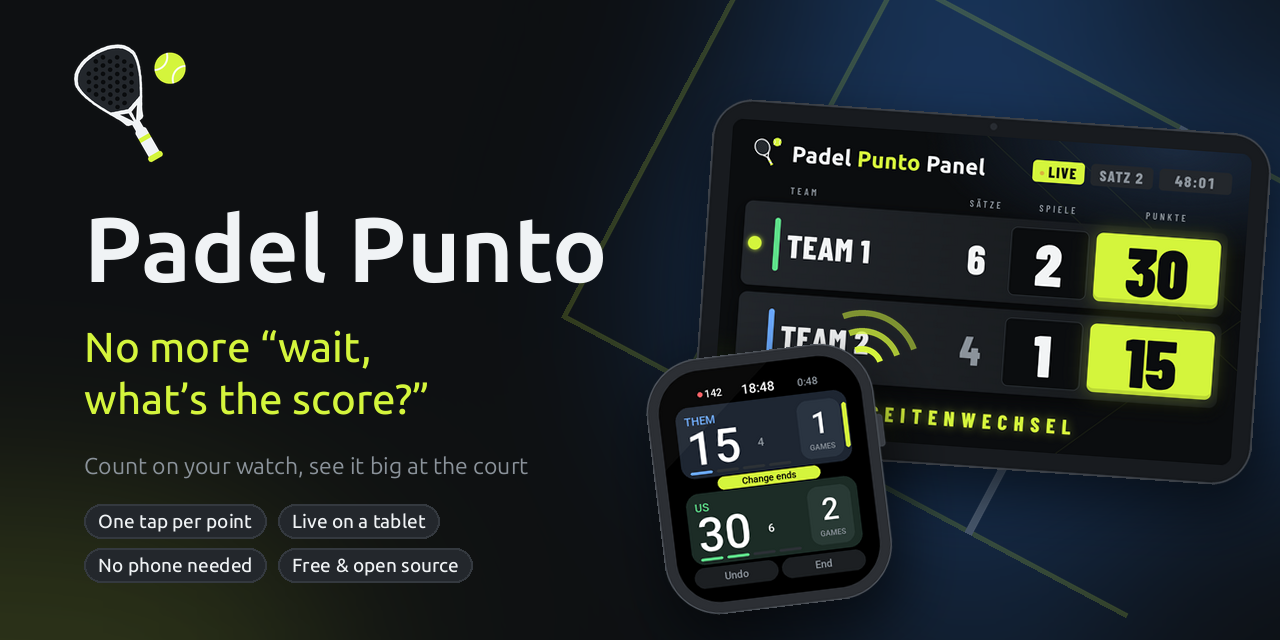
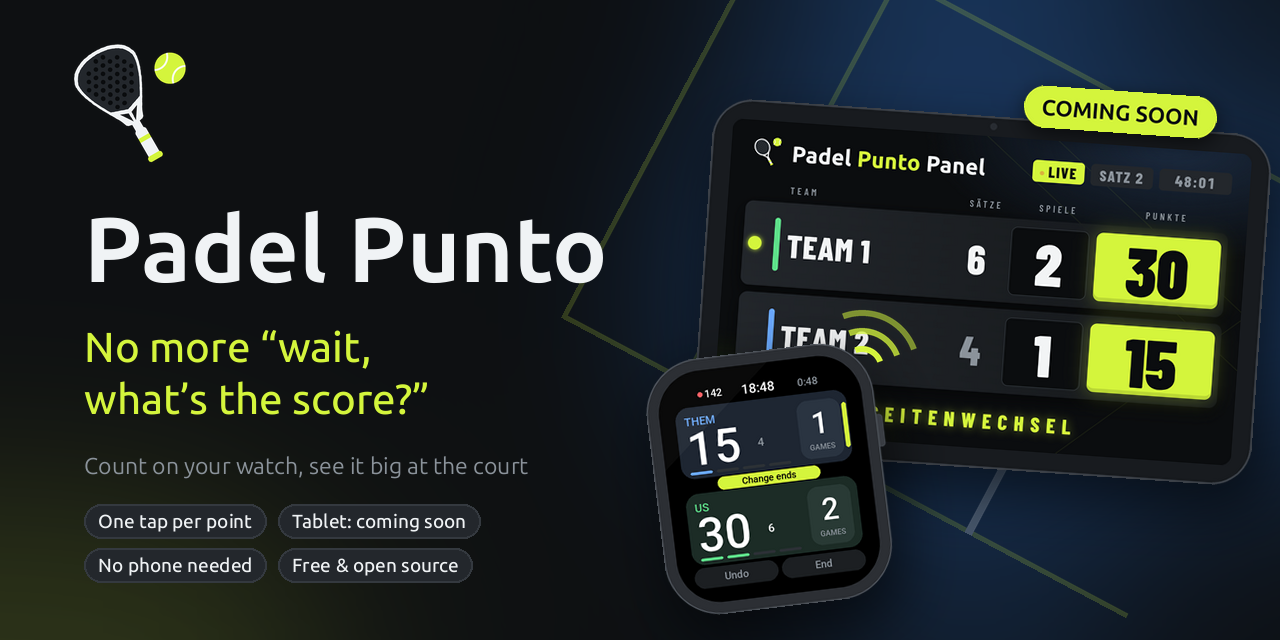
Start page for players: buttons, a block per app, a how-it-works picture, tablet marked coming soon

Changed region(s): [[0.7812, 0.125, 0.9688, 0.2188], [0.2188, 0.7812, 0.375, 0.8438]]

diff --git a/tools/banner.py b/tools/banner.py
@@ -1,5 +1,6 @@
-# Draws the banner of the organization's start page (profile/images/banner.png): "Padel Punto" with
-# the watch and the tablet, from the same pieces as the app banners. Needs the repos next to this
+# Draws the pictures of the organization's start page: the banner (profile/images/banner.png,
+# "Padel Punto" with the watch and the tablet) and the "how it works" strip (profile/images/flow.png),
+# from the same pieces as the app banners. Needs the repos next to this
 # one: ../Uhr (logo, fonts, court lines, watch picture) and ../Panel (tablet frame and screenshot).
 # Usage: python3 tools/banner.py
 import importlib.util
@@ -16,6 +17,28 @@ from readme_art import font, court, BG, MUTED, BALL, WHITE  # noqa: E402
 spec = importlib.util.spec_from_file_location('panel_art', os.path.join(BASE, 'Panel', 'tools', 'readme_art.py'))
 panel = importlib.util.module_from_spec(spec)
 spec.loader.exec_module(panel)
+
+# The tablet app is not released yet: the pictures say "coming soon". Set to False with Padel Punto 2.0.
+SOON = True
+
+
+def pill(img, cx, cy, text, size=19, angle=0):
+    """A lime label with dark text, centred on (cx, cy)."""
+    f = font(size)
+    S = 3
+    tw = ImageDraw.Draw(img).textlength(text, font=f)
+    w, h = round(tw + size * 1.6), round(size * 1.9)
+    im = Image.new('RGBA', (w * S, h * S), (0, 0, 0, 0))
+    d = ImageDraw.Draw(im)
+    d.rounded_rectangle([0, 0, w * S - 1, h * S - 1], radius=h * S // 2, fill=BALL + (255,))
+    d.text((w * S // 2, h * S // 2), text, font=font(size * S), fill=BG, anchor='mm')
+    im = im.resize((w, h), Image.LANCZOS)
+    if angle:
+        im = im.rotate(angle, expand=True, resample=Image.BICUBIC)
+    sh = Image.new('RGBA', (im.width + 40, im.height + 40), (0, 0, 0, 0))
+    sh.paste((0, 0, 0, 150), (20, 26), im.split()[3])
+    img.alpha_composite(sh.filter(ImageFilter.GaussianBlur(10)), (cx - sh.width // 2, cy - sh.height // 2))
+    img.alpha_composite(im, (cx - im.width // 2, cy - im.height // 2))
 
 
 def banner():
@@ -37,7 +60,7 @@ def banner():
     d.text((x, 374), 'what’s the score?”', font=font(42, 'Medium'), fill=BALL)
     d.text((x, 452), 'Count on your watch, see it big at the court', font=font(23, 'Regular'), fill=MUTED)
     f = font(19, 'Medium')
-    rows = (('One tap per point', 'Live on a tablet'),
+    rows = (('One tap per point', 'Tablet: coming soon' if SOON else 'Live on a tablet'),
             ('No phone needed', 'Free & open source'))
     for row, ts in enumerate(rows):
         px, py = x, 504 + row * 44
@@ -52,10 +75,57 @@ def banner():
     w = w.resize((round(w.width * 0.47), round(w.height * 0.47)), Image.LANCZOS)
     panel.place(img, w, 640, 336, angle=7)
     panel.signal(img, 862, 368)
+    if SOON:
+        pill(img, 1120, 112, 'COMING SOON', 22, angle=-4)
+    return img.convert('RGB')
+
+
+def flow():
+    """How it works, in one strip: the watch counts, Bluetooth carries the score, the tablet shows it."""
+    W, H = 1280, 400
+    img = Image.new('RGBA', (W, H), BG + (255,))
+    glow = Image.new('RGBA', (W, H), (0, 0, 0, 0))
+    gd = ImageDraw.Draw(glow)
+    gd.ellipse([760, -160, 1400, 420], fill=(32, 78, 140, 120))
+    gd.ellipse([-200, 180, 360, 620], fill=(212, 245, 60, 30))
+    img.alpha_composite(glow.filter(ImageFilter.GaussianBlur(110)))
+
+    w = Image.open(panel.WATCH).convert('RGBA')
+    k = 250 / w.height
+    w = w.resize((round(w.width * k), 250), Image.LANCZOS)
+    wx, top = 150, 28
+    panel.place(img, w, wx, top)
+    t = panel.tablet('banner', 420)
+    tx = W - 150 - t.width
+    panel.place(img, t, tx, top + (250 - t.height) // 2)
+
+    # dots from the watch to the tablet, growing brighter, with an arrow head
+    d = ImageDraw.Draw(img)
+    y = top + 125
+    x0, x1 = wx + w.width + 36, tx - 44
+    n = 13
+    for i in range(n):
+        x = x0 + (x1 - x0) * i / (n - 1)
+        a = round(70 + 185 * i / (n - 1))
+        r = 5
+        d.ellipse([x - r, y - r, x + r, y + r], fill=tuple(round(BG[c] + (BALL[c] - BG[c]) * a / 255) for c in range(3)))
+    d.polygon([(x1 + 12, y - 13), (x1 + 34, y), (x1 + 12, y + 13)], fill=BALL)
+    mid = (x0 + x1) // 2
+    d.text((mid, y - 40), 'Bluetooth', font=font(22), fill=WHITE, anchor='mm')
+    d.text((mid, y + 40), 'no phone, no internet', font=font(18, 'Regular'), fill=MUTED, anchor='mm')
+
+    base = top + 250 + 44
+    for cx, head, sub in ((wx + w.width // 2, 'The watch counts', 'one tap per point, score called out loud'),
+                          (tx + t.width // 2, 'The tablet shows', 'big at the court, for everyone')):
+        d.text((cx, base), head, font=font(26), fill=WHITE, anchor='mm')
+        d.text((cx, base + 34), sub, font=font(18, 'Regular'), fill=MUTED, anchor='mm')
+    if SOON:
+        pill(img, tx + t.width - 40, top + (250 - t.height) // 2 + 6, 'COMING SOON', 17, angle=-4)
     return img.convert('RGB')
 
 
 if __name__ == '__main__':
-    out = os.path.join(ROOT, 'profile', 'images', 'banner.png')
-    banner().save(out, optimize=True)
-    print(out)
+    for name, draw in (('banner', banner), ('flow', flow)):
+        out = os.path.join(ROOT, 'profile', 'images', name + '.png')
+        draw().save(out, optimize=True)
+        print(out)

diff --git a/profile/README.md b/profile/README.md
@@ -2,55 +2,89 @@
   <img src="images/banner.png" alt="Padel Punto – no more “wait, what’s the score?” Count on your watch, see it big at the court" width="840">
 </p>
 
+<p align="center">
+  <a href="https://github.com/PadelPunto/watch-zepp#-get-it-on-your-watch"><img src="https://img.shields.io/badge/Watch%20app-in%20the%20Zepp%20App%20Store-d4f53c?labelColor=23272c&style=for-the-badge" alt="Watch app: in the Zepp App Store"></a>
+  <img src="https://img.shields.io/badge/Tablet%20scoreboard-coming%20soon-8b949e?labelColor=23272c&style=for-the-badge" alt="Tablet scoreboard: coming soon">
+  <a href="https://github.com/PadelPunto/watch-zepp/blob/main/LICENSE"><img src="https://img.shields.io/badge/free-open%20source-d4f53c?labelColor=23272c&style=for-the-badge" alt="Free and open source"></a>
+</p>
+
 <h3 align="center">
-  Free padel apps that work together:<br>
-  the watch keeps the score, the tablet at the court shows it to everyone.
+  Tap your side, play the next point.<br>
+  Your watch keeps the score – and calls it out loud.
 </h3>
 
 <br>
 
-## 🎾 How it works
-
-```
-   ⌚ Watch                    📡 Bluetooth LE                 📺 Tablet at the court
-   counts every point   ──────────────────────────────▶   shows the score big
-   (works on its own)          PadelPunto/protocol          (live, two designs)
-```
-
-**The watch counts, everything else shows.** If the tablet is gone, the watch simply carries on.
-No phone, no internet, no account.
-
-- ⌚ **The watch app is here:** Padel Punto is in the Zepp App Store (in the Zepp app: your watch →
-  App Store → “Padel Punto”).
-- 📺 **The tablet scoreboard is coming soon:** Padel Punto Panel is being tested at the court.
-- ✉ **Questions or feedback:** <padelpunto@mailbox.org>
+## Padel Punto for your watch
 
 <table>
   <tr>
-    <td align="center" width="33%"><img src="images/match.png" alt="Match screen on the watch" width="220"><br><sub><b>One tap per point</b> on the watch</sub></td>
-    <td align="center" width="33%"><img src="images/serve-spin.webp" alt="Racket spin that picks who serves" width="200"><br><sub><b>Racket spin</b> picks who serves</sub></td>
-    <td align="center" width="33%"><img src="images/arena.png" alt="Arena design on the tablet" width="280"><br><sub><b>Live on the tablet</b> – Arena design</sub></td>
+    <td width="46%" align="center">
+      <img src="images/match.png" alt="Match screen on the watch: 30:15, second set" width="170">
+      &nbsp;
+      <img src="images/serve-spin.webp" alt="A spinning racket picks who serves" width="170">
+    </td>
+    <td valign="top">
+      <p><b>Available now</b> in the Zepp App Store<br>
+      <sub>Amazfit Bip 6 · Active 2 (Square) · Bip Max</sub></p>
+      <ul>
+        <li><b>One tap per point</b> on big team cards, readable in bright sun</li>
+        <li><b>The score out loud</b> after every point, offline</li>
+        <li><b>Your rules:</b> Advantage, Golden Point or Star Point, short sets, match tiebreak</li>
+        <li><b>On its own:</b> no phone, no internet, no account</li>
+      </ul>
+      <p><b>Get it:</b> Zepp app → your watch → App Store<br>
+      <a href="https://github.com/PadelPunto/watch-zepp">All features and the code →</a></p>
+    </td>
   </tr>
 </table>
 
-## 📦 Repositories
+## Padel Punto Panel for the tablet
 
-| | Repository | What it is |
-|---|---|---|
-| ⌚ | **[watch-zepp](https://github.com/PadelPunto/watch-zepp)** | **Padel Punto** for Amazfit (Zepp OS): Bip 6, Active 2 (Square), Bip Max – counts, says the score out loud, buzzes at change of ends |
-| 📱 | **app-android** · coming soon | **Padel Punto Panel** for Android: the tablet scoreboard at the court |
-| 📡 | **protocol** · coming soon | The Bluetooth LE protocol every Padel Punto device speaks |
+<table>
+  <tr>
+    <td width="46%" align="center">
+      <img src="images/arena.png" alt="Padel Punto Panel on a tablet, Arena design" width="360">
+    </td>
+    <td valign="top">
+      <p><b>Coming soon</b> for Android tablets<br>
+      <sub>being tested at the court right now</sub></p>
+      <ul>
+        <li><b>Everyone sees the score:</b> big and live at the court</li>
+        <li><b>Two designs:</b> Arena and Court</li>
+        <li><b>Pair once,</b> then the watch connects by itself at every match</li>
+        <li><b>The watch stays the boss:</b> if the tablet is gone, nothing changes</li>
+      </ul>
+    </td>
+  </tr>
+</table>
 
-## 🗺 What’s next
+## How it works
 
-- ⌚ **More watches** – `watch-wearos`, `watch-garmin`, …
-- 🔘 **A clicker** at the court – `clicker-…`
-- 📱 **More on Android** – `app-android` grows beyond the tablet
+<p align="center">
+  <img src="images/flow.png" alt="The watch counts every point and sends the score over Bluetooth to the tablet, which shows it big at the court. No phone, no internet." width="840">
+</p>
 
-Every new device gets its own repository and speaks the same protocol.
+<details>
+<summary><b>For developers</b></summary>
+
+<br>
+
+Every device gets its own repository, and all of them speak the same Bluetooth LE protocol.
+
+| Repository | What it is |
+|---|---|
+| **[watch-zepp](https://github.com/PadelPunto/watch-zepp)** | Padel Punto for Amazfit watches (Zepp OS) |
+| **app-android** · coming soon | Padel Punto Panel, the tablet scoreboard for Android |
+| **protocol** · coming soon | The Bluetooth LE protocol between the devices |
+
+Ideas for later: more watches (`watch-wearos`, `watch-garmin`), a clicker at the court (`clicker-…`), more on Android.
+
+</details>
 
 ---
 
 <p align="center">
-  <sub>Made with ☕ by Toni &amp; Claude AI · Free &amp; open source (GPL-3.0)</sub>
+  Questions or feedback? <a href="mailto:padelpunto@mailbox.org">padelpunto@mailbox.org</a><br>
+  <sub>Made by Toni &amp; Claude AI · Free &amp; open source (GPL-3.0)</sub>
 </p>
